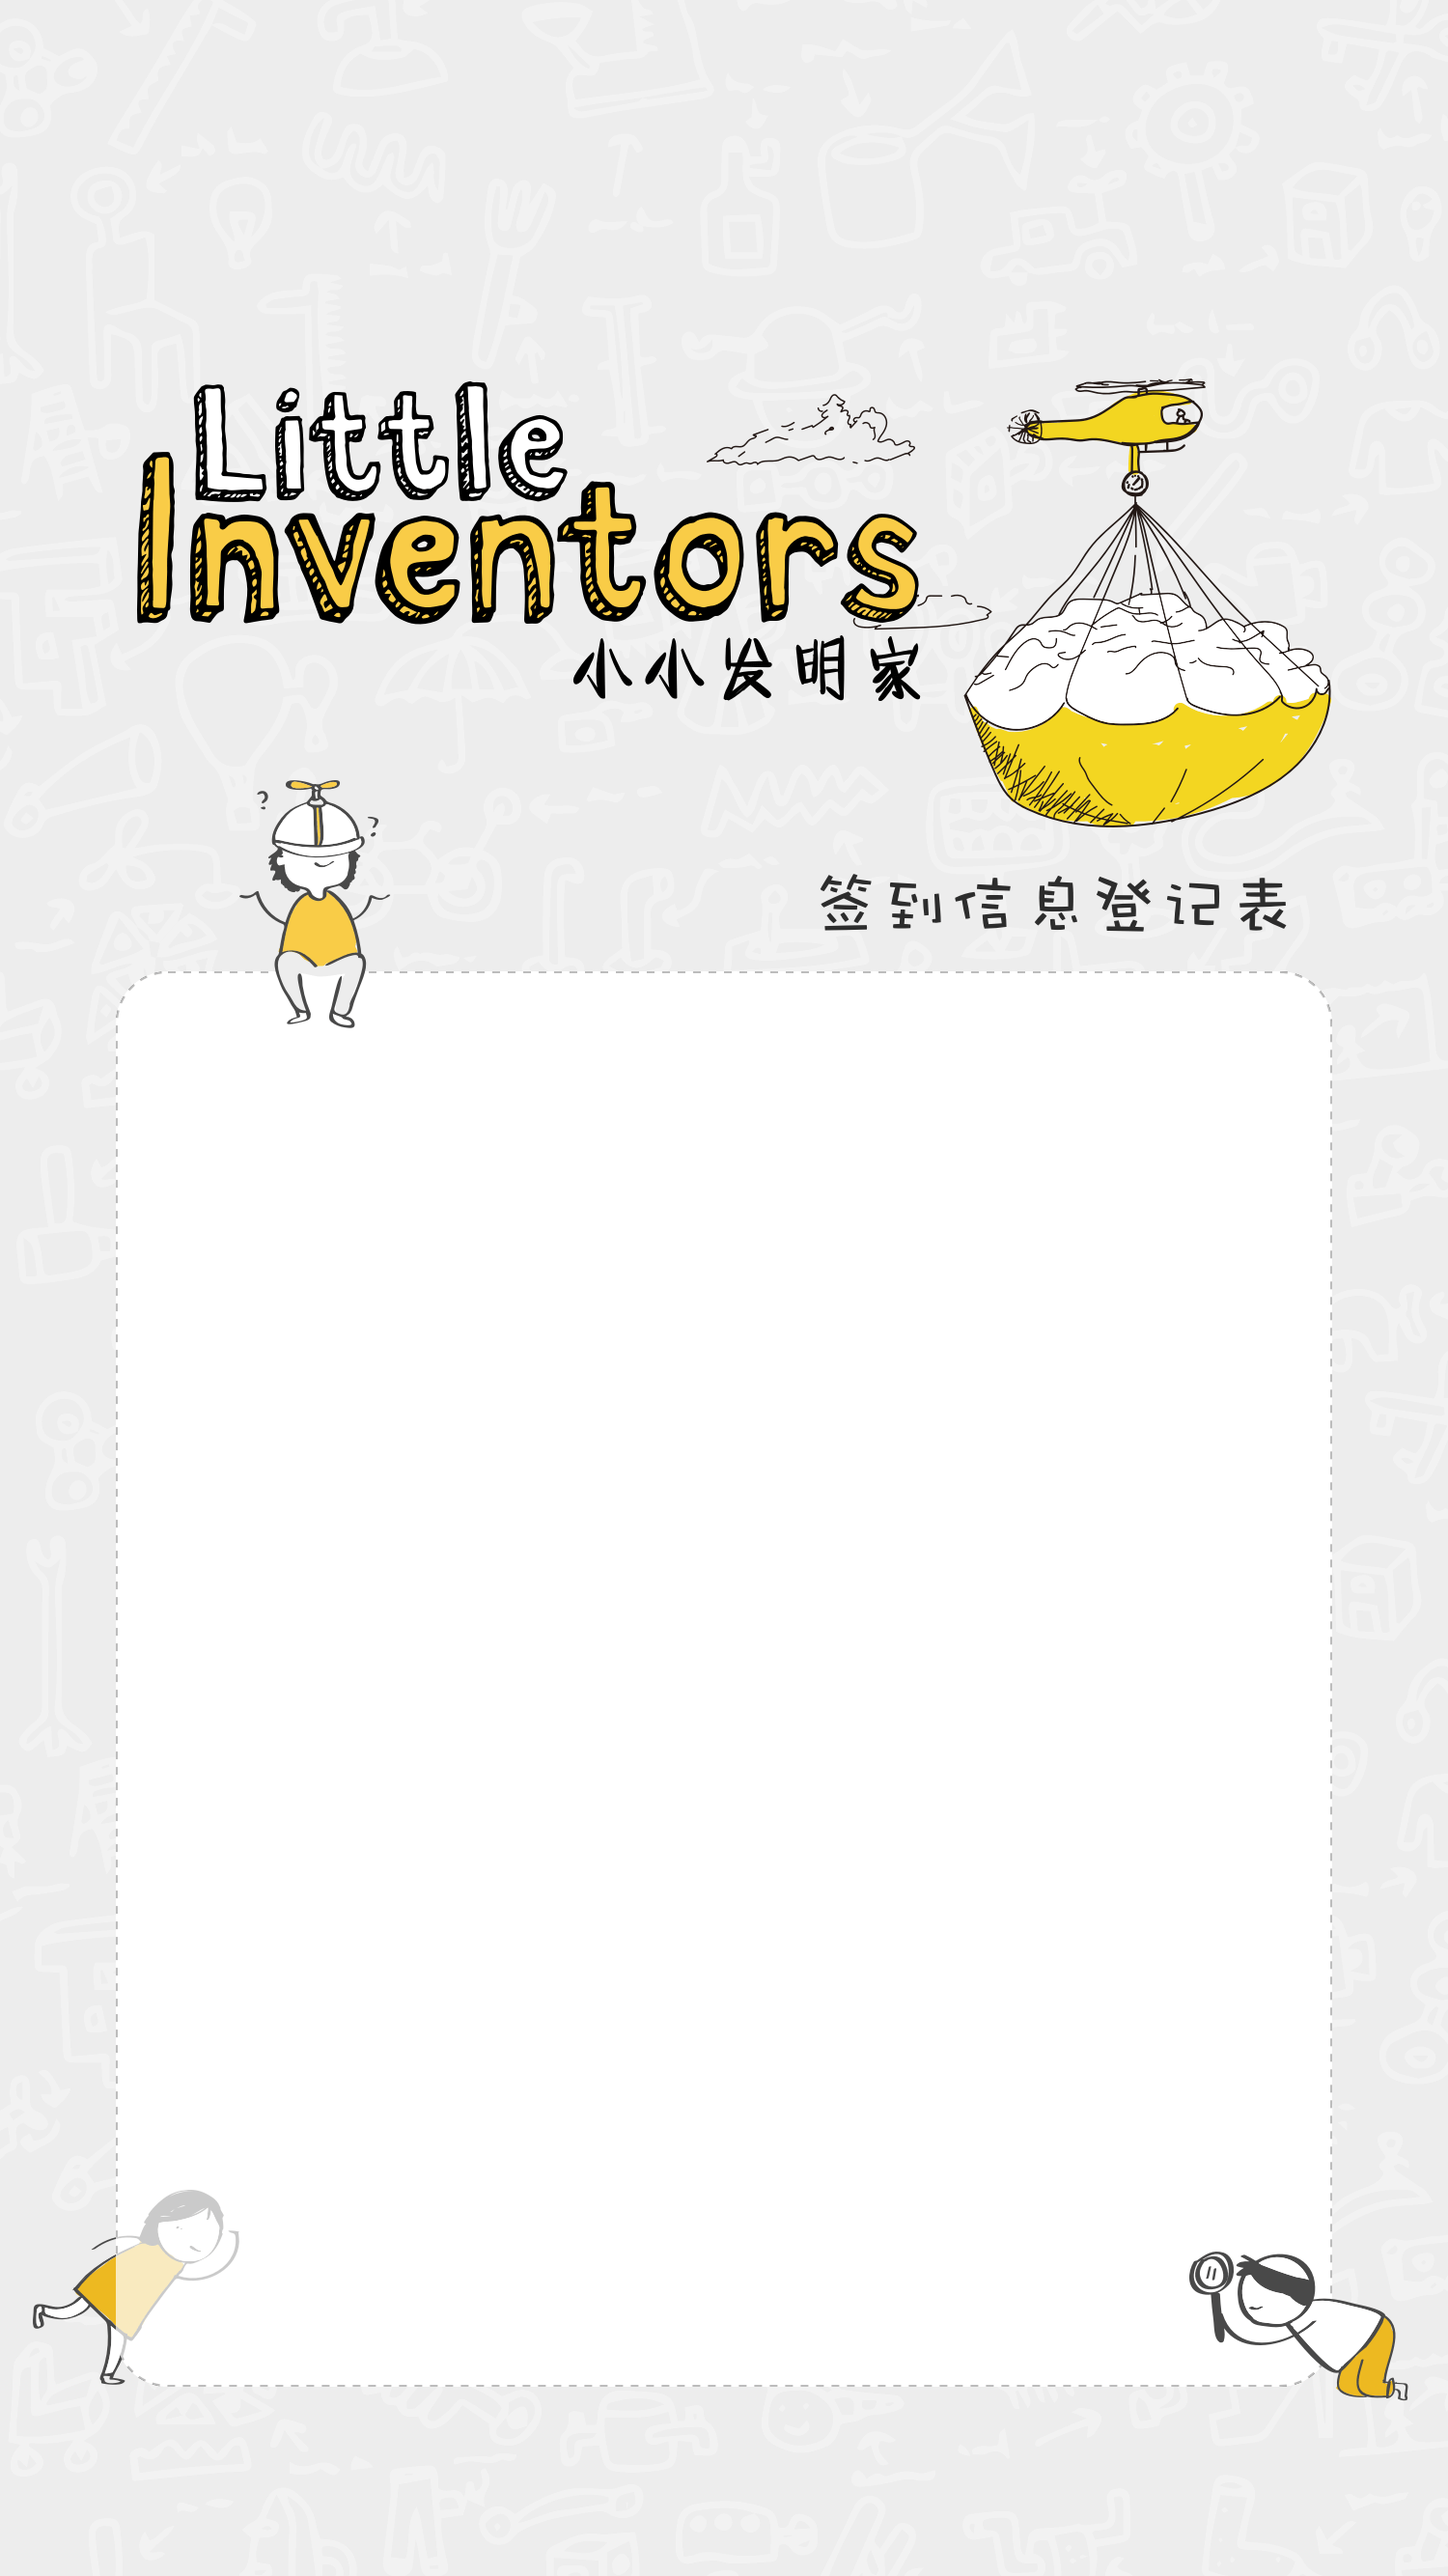
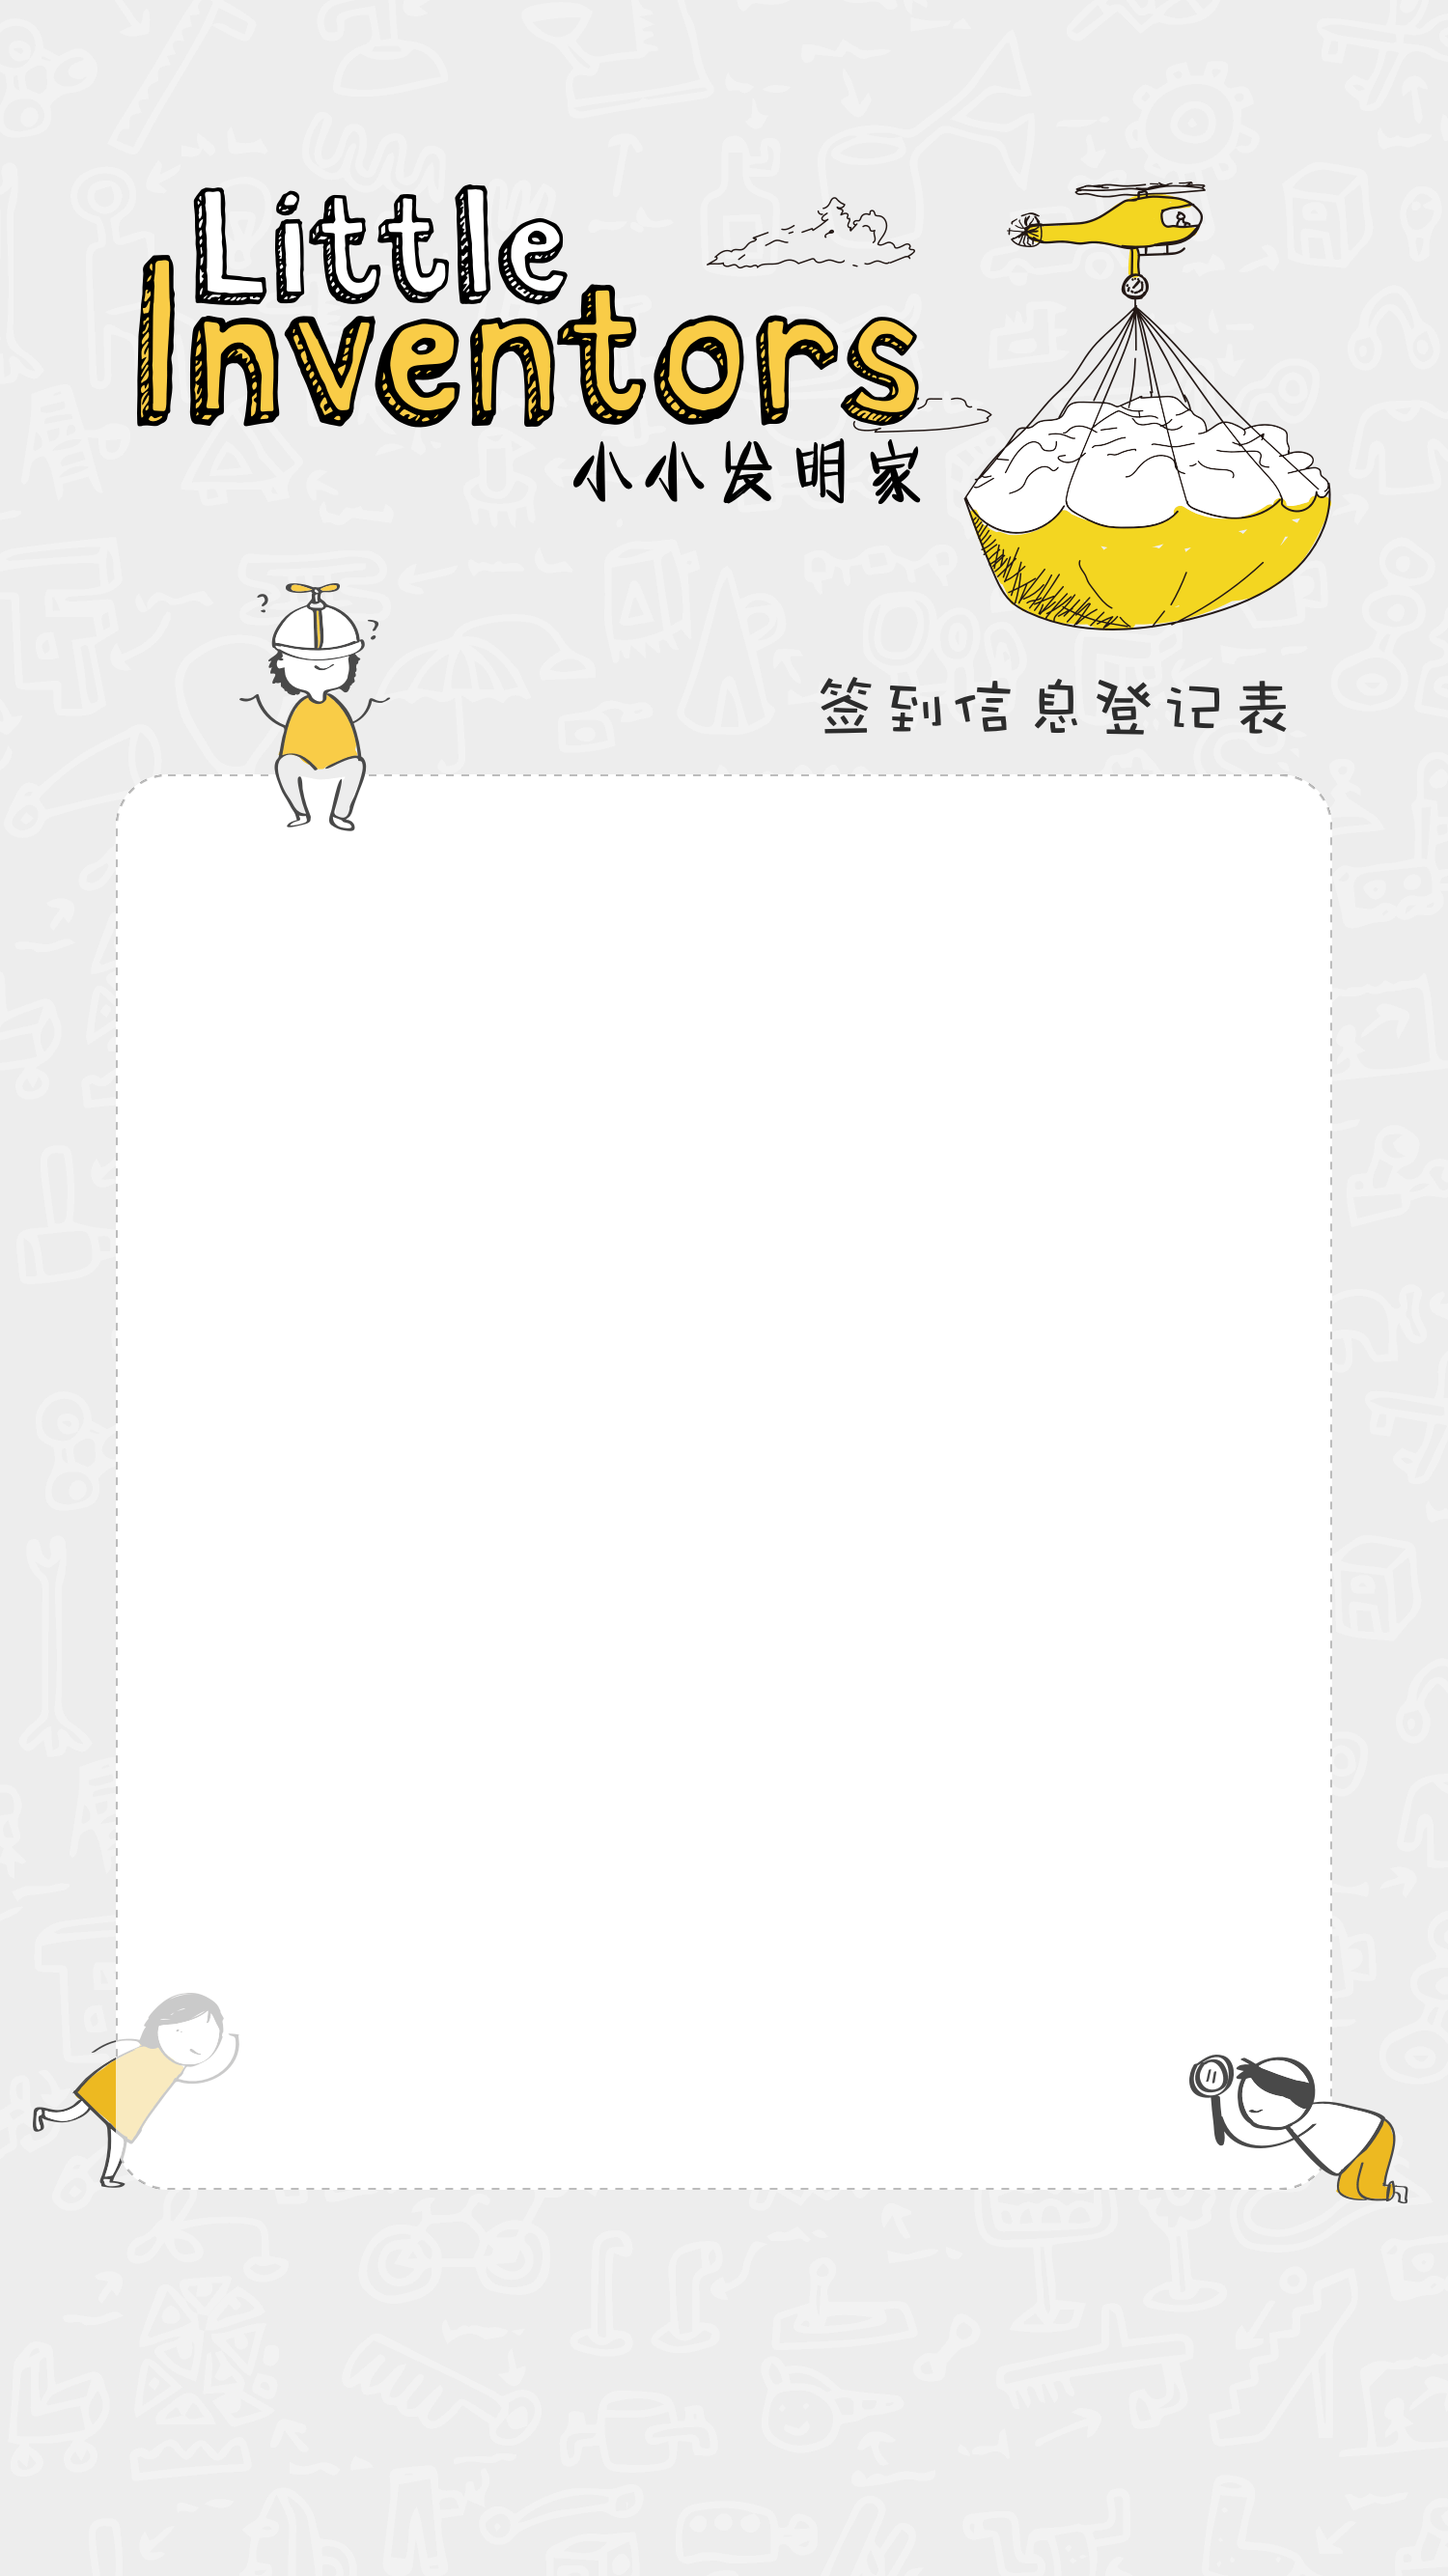
17:39

diff --git a/public/mobile/css/qrCode.css b/public/mobile/css/qrCode.css
@@ -1,15 +1,16 @@
 html, body {
     width:7.5rem;	
-	height:13.34rem;
+	max-height:100vh;
     font-family: Arial,Helvetica,'Hiragino Sans GB','Microsoft YaHei',sans-serif;
     -webkit-font-smoothing: antialiased;
     color: #2b2b2b ;
 }
 body{	
 	overflow-x:hidden;
+	overflow-y: hidden;
 	position:relative;
 	background:url('../img/qr_bg.png') no-repeat;
-	background-size:7.5rem 13.34rem;
+	background-size:7.5rem;
 	
 }
 .clearfix:after{

diff --git a/resources/views/mobile/sign_end.blade.php b/resources/views/mobile/sign_end.blade.php
@@ -15,16 +15,16 @@
     <style type="text/css">
         html, body {
             width:7.5rem;   
-            height:13.34rem;           
+            max-height:100vh;           
             font-family: Arial,Helvetica,'Hiragino Sans GB','Microsoft YaHei',sans-serif;
             -webkit-font-smoothing: antialiased;
         }
-        body{
-            position: relative;   
+        body{   
             overflow-x:hidden;
+            overflow-y: hidden;
             position:relative;
             background:url('{{asset('/mobile/img/signed.png')}}') no-repeat;
-            background-size:7.5rem 13.34rem;            
+            background-size:7.5rem;            
         }
         a:hover, a:visited, a:link, a:active{
             text-decoration: none;
